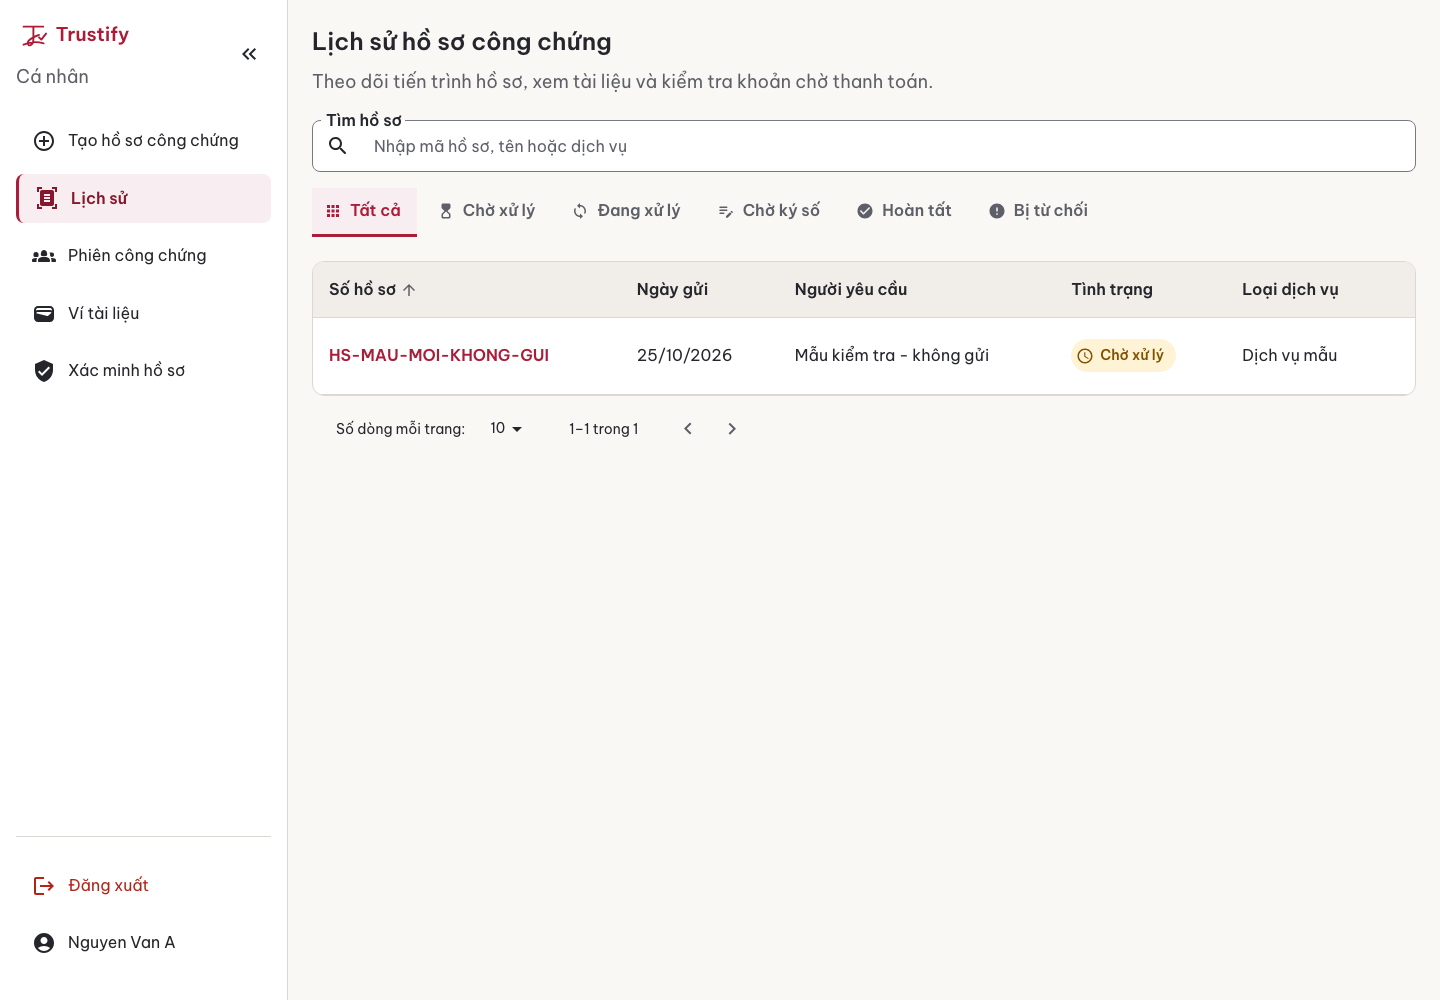
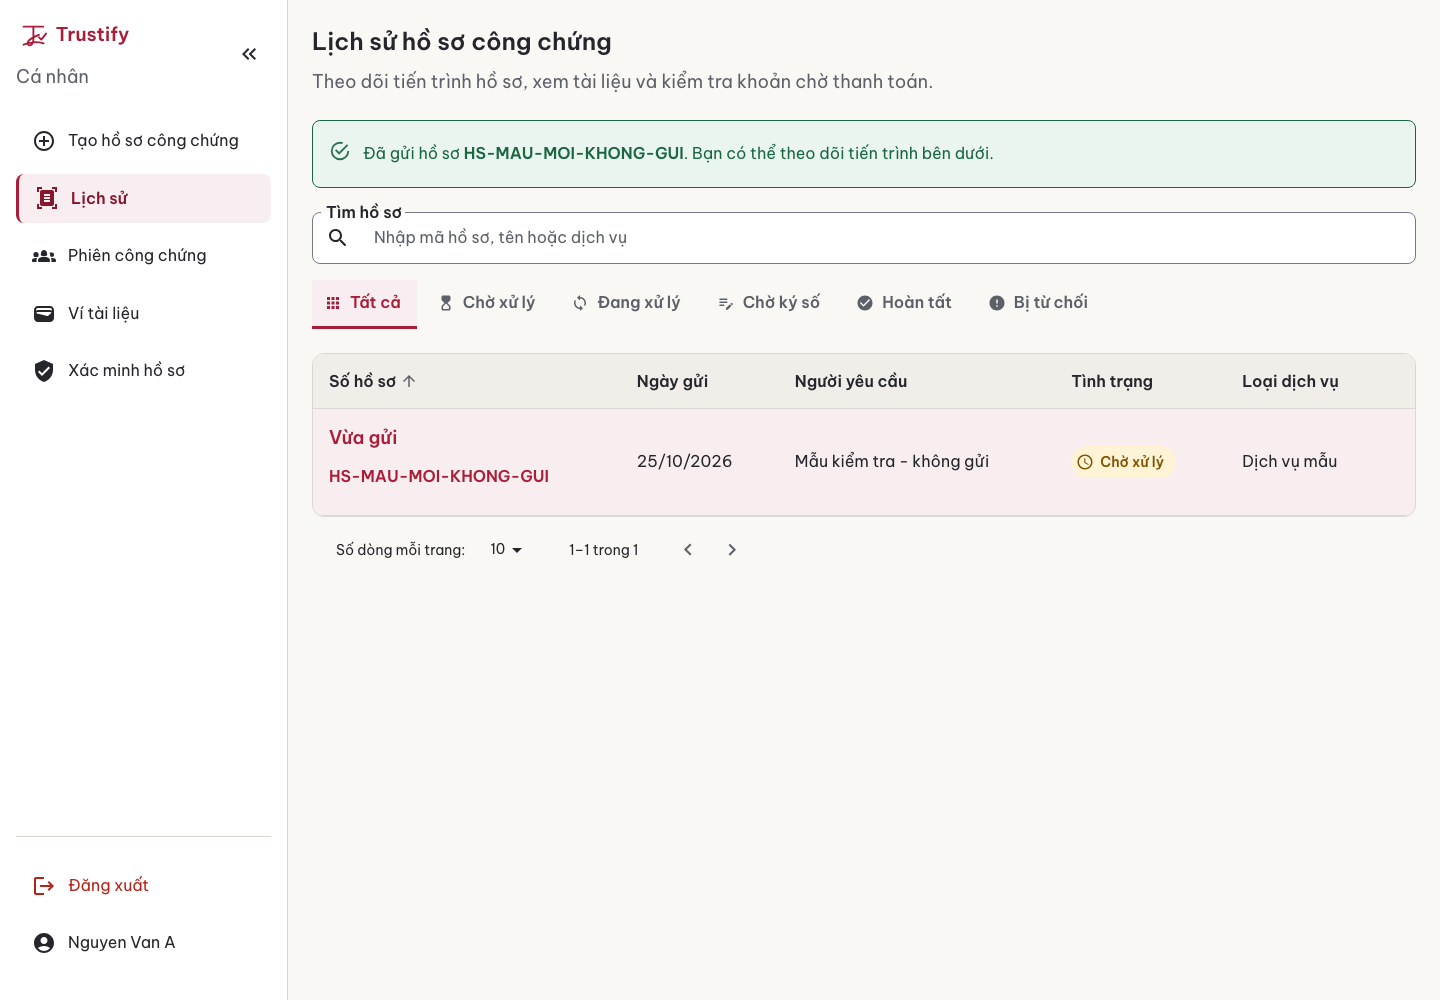
Recognize the actual created-document response and reveal its history row

diff --git a/src/components/services/HistoryDataTable.js b/src/components/services/HistoryDataTable.js
@@ -1,4 +1,4 @@
-import React, { useEffect, useMemo, useState } from 'react';
+import React, { useEffect, useMemo, useRef, useState } from 'react';
 import { Box, Button, Card, CardContent, FormControl, IconButton, InputLabel, MenuItem, Select, Table, TableBody, TableCell, TableContainer, TableHead, TablePagination, TableRow, TableSortLabel, Typography, useMediaQuery } from '@mui/material';
 import { ArrowDownwardRounded, ArrowUpwardRounded } from '@mui/icons-material';
 import { Link } from 'react-router-dom';
@@ -15,7 +15,7 @@ function descendingComparator(a, b, orderBy) {
 function getComparator(order, orderBy) {
   return order === 'desc' ? (a, b) => descendingComparator(a, b, orderBy) : (a, b) => -descendingComparator(a, b, orderBy);
 }
-const HistoryDataTable = ({ filterStatus, searchText, rows, headCells, statusTypes, data, onClearFilters }) => {
+const HistoryDataTable = ({ filterStatus, searchText, rows, headCells, statusTypes, data, onClearFilters, highlightId }) => {
   const mobile = useMediaQuery((theme) => theme.breakpoints.down('md'));
   const [order, setOrder] = useState('asc');
   const [orderBy, setOrderBy] = useState('profile');
@@ -23,6 +23,9 @@ const HistoryDataTable = ({ filterStatus, searchText, rows, headCells, statusTyp
   const [rowsPerPage, setRowsPerPage] = useState(10);
   const [open, setOpen] = useState(false);
   const [notaryId, setNotaryId] = useState('');
+  const highlightRef = useRef(null);
+  const pagedHighlight = useRef(null);
+  const focusedHighlight = useRef(null);
   useEffect(() => { setPage(0); }, [filterStatus, searchText]);
   const filteredRows = useMemo(() => {
     let filtered = [...rows];
@@ -33,8 +36,20 @@ const HistoryDataTable = ({ filterStatus, searchText, rows, headCells, statusTyp
       row.service.toLowerCase().includes(searchText.toLowerCase()));
     return filtered.sort(getComparator(order, orderBy));
   }, [rows, filterStatus, statusTypes.All, searchText, order, orderBy]);
+  useEffect(() => {
+    const index = filteredRows.findIndex((row) => row.profile === highlightId);
+    if (index >= 0 && pagedHighlight.current !== highlightId) {
+      pagedHighlight.current = highlightId; setPage(Math.floor(index / rowsPerPage));
+    }
+  }, [highlightId, filteredRows, rowsPerPage]);
   const currentPage = Math.min(page, Math.max(0, Math.ceil(filteredRows.length / rowsPerPage) - 1));
   const visibleRows = filteredRows.slice(currentPage * rowsPerPage, currentPage * rowsPerPage + rowsPerPage);
+  useEffect(() => {
+    if (highlightRef.current && focusedHighlight.current !== highlightId) {
+      focusedHighlight.current = highlightId; highlightRef.current.focus();
+      highlightRef.current.scrollIntoView?.({ block: 'center' });
+    }
+  }, [highlightId, currentPage, mobile, visibleRows]);
   const requestSort = (property) => { setOrder(orderBy === property && order === 'asc' ? 'desc' : 'asc'); setOrderBy(property); };
   const openRecord = (row) => { setNotaryId(row.profile); setOpen(true); };
   return (
@@ -54,8 +69,8 @@ const HistoryDataTable = ({ filterStatus, searchText, rows, headCells, statusTyp
             </IconButton>
           </Box>
           <Box component="ul" aria-label="Danh sách hồ sơ" sx={{ p: 0, m: 0, listStyle: 'none', display: 'flex', flexDirection: 'column', gap: 2 }}>
-            {visibleRows.map((row) => <Card key={row.id} component="li"><CardContent sx={{ display: 'flex', flexDirection: 'column', gap: 1.5 }}>
-              <Box><Typography color="text.secondary">Mã hồ sơ</Typography><Typography component="h2" sx={{ fontWeight: 600, overflowWrap: 'anywhere' }}>{row.profile}</Typography></Box>
+            {visibleRows.map((row) => <Card key={row.id} component="li" ref={row.profile === highlightId ? highlightRef : undefined} tabIndex={row.profile === highlightId ? -1 : undefined} sx={{ borderColor: row.profile === highlightId ? 'primary.main' : 'divider' }}><CardContent sx={{ display: 'flex', flexDirection: 'column', gap: 1.5 }}>
+              <Box>{row.profile === highlightId && <Typography color="primary.main" sx={{ fontWeight: 600 }}>Vừa gửi</Typography>}<Typography color="text.secondary">Mã hồ sơ</Typography><Typography component="h2" sx={{ fontWeight: 600, overflowWrap: 'anywhere' }}>{row.profile}</Typography></Box>
               <Box sx={{ alignSelf: 'flex-start' }}><DocumentStatusChip status={row.status} /></Box>
               <Typography color="text.secondary">Ngày gửi: {row.date}</Typography>
               <Typography sx={{ overflowWrap: 'anywhere' }}>{row.service}</Typography>
@@ -68,8 +83,8 @@ const HistoryDataTable = ({ filterStatus, searchText, rows, headCells, statusTyp
             <TableHead><TableRow>{headCells.map((cell) => <TableCell key={cell.id} sortDirection={orderBy === cell.id ? order : false} sx={{ minWidth: cell.id === 'status' ? 140 : undefined }}>
               <TableSortLabel active={orderBy === cell.id} direction={orderBy === cell.id ? order : 'asc'} onClick={() => requestSort(cell.id)}>{cell.label}</TableSortLabel>
             </TableCell>)}</TableRow></TableHead>
-            <TableBody>{visibleRows.map((row) => <TableRow key={row.id} hover selected={open && row.profile === notaryId} onClick={() => openRecord(row)} sx={{ cursor: 'pointer' }}>
-              <TableCell component="th" scope="row"><Button variant="text" aria-label={`Xem hồ sơ ${row.profile}`} onClick={(event) => { event.stopPropagation(); openRecord(row); }} sx={{ p: 0, textAlign: 'left', justifyContent: 'flex-start', overflowWrap: 'anywhere' }}>{row.profile}</Button></TableCell>
+            <TableBody>{visibleRows.map((row) => <TableRow key={row.id} hover ref={row.profile === highlightId ? highlightRef : undefined} tabIndex={row.profile === highlightId ? -1 : undefined} selected={(open && row.profile === notaryId) || row.profile === highlightId} onClick={() => openRecord(row)} sx={{ cursor: 'pointer' }}>
+              <TableCell component="th" scope="row">{row.profile === highlightId && <Typography color="primary.main" sx={{ fontWeight: 600 }}>Vừa gửi</Typography>}<Button variant="text" aria-label={`Xem hồ sơ ${row.profile}`} onClick={(event) => { event.stopPropagation(); openRecord(row); }} sx={{ p: 0, textAlign: 'left', justifyContent: 'flex-start', overflowWrap: 'anywhere' }}>{row.profile}</Button></TableCell>
               <TableCell>{row.date}</TableCell><TableCell>{row.name}</TableCell><TableCell sx={{ minWidth: 140 }}><DocumentStatusChip status={row.status} /></TableCell><TableCell>{row.service}</TableCell>
             </TableRow>)}</TableBody>
           </Table>

diff --git a/src/pages/services/HistoryNotarizationProfile.js b/src/pages/services/HistoryNotarizationProfile.js
@@ -1,5 +1,6 @@
 import React, { useCallback, useEffect, useState } from 'react';
-import { Box, FormControl, InputLabel, MenuItem, Select, Skeleton, Typography, TextField, InputAdornment } from '@mui/material';
+import { Alert, Box, FormControl, InputLabel, MenuItem, Select, Skeleton, Typography, TextField, InputAdornment } from '@mui/material';
+import { useLocation } from 'react-router-dom';
 import StatusFilterButton from '../../components/services/StatusFilterButton';
 import HistoryDataTable from '../../components/services/HistoryDataTable';
 import NotarizationService from '../../services/notarization.service';
@@ -46,6 +47,7 @@ const createData = (id, profile, date, name, status, service) => ({
 });
 
 const HistoryNotarizationProfile = () => {
+  const submittedDocumentId = useLocation().state?.submittedDocumentId;
   const [statusFilter, setStatusFilter] = useState(STATUS_TYPES.All);
   const [statusClicked, setStatusClicked] = useState(STATUS_TYPES.All);
   const [searchText, setSearchText] = useState('');
@@ -102,6 +104,7 @@ const HistoryNotarizationProfile = () => {
     <Box sx={{ display: 'flex', flexDirection: 'column', width: '100%', maxWidth: 1280, mx: 'auto', p: { xs: 2, md: 3 }, gap: 3 }}>
       <Box><Typography component="h1" variant="h4">Lịch sử hồ sơ công chứng</Typography>
         <Typography color="text.secondary" sx={{ mt: 1 }}>Theo dõi tiến trình hồ sơ, xem tài liệu và kiểm tra khoản chờ thanh toán.</Typography></Box>
+      {submittedDocumentId && <Alert severity="success">Đã gửi hồ sơ <Box component="span" sx={{ fontWeight: 600, overflowWrap: 'anywhere' }}>{submittedDocumentId}</Box>. Bạn có thể theo dõi tiến trình bên dưới.</Alert>}
       <PendingPayments />
       <Box sx={{ display: 'flex', flexDirection: 'column', gap: 2 }}>
         <TextField label="Tìm hồ sơ" placeholder="Nhập mã hồ sơ, tên hoặc dịch vụ" value={searchText} onChange={(event) => setSearchText(event.target.value)} fullWidth
@@ -117,7 +120,7 @@ const HistoryNotarizationProfile = () => {
       </Box>
       {loadingStatus ? <LoadingState label="Đang tải hồ sơ…">{[0, 1, 2].map((index) => <Skeleton key={index} variant="rectangular" height={96} sx={{ mb: 2 }} />)}</LoadingState> : error ?
         <ErrorState title="Chưa thể tải lịch sử hồ sơ" description="Bạn có thể thử tải lại danh sách hồ sơ." onRetry={fetchHistory} /> :
-        <HistoryDataTable filterStatus={statusFilter} searchText={searchText} rows={rows} headCells={HEAD_CELLS} statusTypes={STATUS_TYPES} data={fullData} onClearFilters={clearFilters} />}
+        <HistoryDataTable filterStatus={statusFilter} searchText={searchText} rows={rows} headCells={HEAD_CELLS} statusTypes={STATUS_TYPES} data={fullData} onClearFilters={clearFilters} highlightId={submittedDocumentId} />}
     </Box>
   );
 };

diff --git a/src/pages/services/create-notarization-profile/CreateNotarizationProfile.test.js b/src/pages/services/create-notarization-profile/CreateNotarizationProfile.test.js
@@ -123,8 +123,20 @@ test('an unsuccessful submission preserves review information and files for retr
   fireEvent.change(screen.getByLabelText('Tệp cho Giấy tờ tuỳ thân'), { target: { files: [new File(['sample'], 'sample.pdf', { type: 'application/pdf' })] } });
   fireEvent.click(screen.getByRole('button', { name: 'Tiếp tục', exact: true }));
   fireEvent.click(screen.getByRole('button', { name: 'Gửi hồ sơ', exact: true }));
-  await waitFor(() => expect(toast.error).toHaveBeenCalledWith('Chưa thể gửi hồ sơ. Thông tin đã nhập vẫn ở đây để bạn thử lại.'));
+  await waitFor(() => expect(toast.error).toHaveBeenCalledWith('Chưa thể xác nhận việc gửi hồ sơ. Vui lòng kiểm tra Lịch sử trước khi thử lại.'));
   expect(screen.getByText('Nguyễn Thị Mỹ')).toBeInTheDocument(); expect(screen.getByRole('button', { name: 'Mở tài liệu sample.pdf' })).toBeInTheDocument();
   await waitFor(() => expect(screen.getByRole('button', { name: 'Gửi hồ sơ', exact: true })).toBeEnabled());
   expect(NotarizationService.uploadNotarizationDocument).toHaveBeenCalledTimes(1); expect(toast.success).not.toHaveBeenCalled(); expect(mockNavigate).not.toHaveBeenCalled();
+});
+
+
+test.each(['id', '_id'])('a created-document response (%s) navigates with its ID without requiring a status envelope', async (idKey) => {
+  const createdId = '507f1f77bcf86cd799439011';
+  NotarizationService.uploadNotarizationDocument.mockResolvedValue({ [idKey]: createdId, createdAt: '2026-10-25' });
+  setup(); await chooseField(); await chooseService(); fillInformation();
+  fireEvent.change(screen.getByLabelText('Tệp cho Giấy tờ tuỳ thân'), { target: { files: [new File(['sample'], 'sample.pdf', { type: 'application/pdf' })] } });
+  fireEvent.click(screen.getByRole('button', { name: 'Tiếp tục', exact: true }));
+  fireEvent.click(screen.getByRole('button', { name: 'Gửi hồ sơ', exact: true }));
+  await waitFor(() => expect(mockNavigate).toHaveBeenCalledWith('/user/history', { state: { submittedDocumentId: createdId } }));
+  expect(toast.error).not.toHaveBeenCalled(); expect(toast.success).toHaveBeenCalled();
 });

diff --git a/src/pages/services/create-notarization-profile/CreateNotarizationProfile.js b/src/pages/services/create-notarization-profile/CreateNotarizationProfile.js
@@ -170,8 +170,9 @@ const CreateNotarizationProfile = () => {
 
       const response = await NotarizationService.uploadNotarizationDocument(formData);
 
-      if (response.status !== 200) {
-        toast.error('Chưa thể gửi hồ sơ. Thông tin đã nhập vẫn ở đây để bạn thử lại.');
+      const createdDocumentId = typeof response?.id === 'string' ? response.id : typeof response?._id === 'string' ? response._id : null;
+      if (!createdDocumentId && response?.status !== 200) {
+        toast.error('Chưa thể xác nhận việc gửi hồ sơ. Vui lòng kiểm tra Lịch sử trước khi thử lại.');
         return response;
       }
       toast.success('Tạo hồ sơ công chứng thành công');
@@ -180,10 +181,11 @@ const CreateNotarizationProfile = () => {
       setUploadedFiles([]);
       setDocumentWalletFiles([]);
       setCurrentStep(0);
-      navigate('/user/history');
+      if (createdDocumentId) navigate('/user/history', { state: { submittedDocumentId: createdDocumentId } });
+      else navigate('/user/history');
       return response;
     } catch (error) {
-      toast.error('Chưa thể gửi hồ sơ. Thông tin đã nhập vẫn ở đây để bạn thử lại.');
+      toast.error('Chưa thể xác nhận việc gửi hồ sơ. Vui lòng kiểm tra Lịch sử trước khi thử lại.');
     } finally {
       setLoading(false);
     }

diff --git a/src/components/services/HistoryResponsive.test.js b/src/components/services/HistoryResponsive.test.js
@@ -49,3 +49,13 @@ test('payment read failure offers retry without implying that nothing is owed', 
   await waitFor(() => expect(screen.queryByText('Đang kiểm tra khoản chờ thanh toán…')).not.toBeInTheDocument());
   expect(PaymentService.getMyPayments.mock.calls).toEqual([['pending'], ['pending']]); expect(PaymentService.updatePaymentStatus).not.toHaveBeenCalled();
 });
+
+
+test.each([false, true])('a newly submitted ID is revealed once without changing the sort order (%s)', (mobile) => {
+  useMediaQuery.mockReturnValue(mobile); render(<HistoryDataTable rows={rows} headCells={heads} statusTypes={STATUS_TYPES} filterStatus={STATUS_TYPES.All} searchText="" data={[]} highlightId="HS-11" />, { wrapper });
+  expect(screen.getByText('HS-11')).toBeInTheDocument(); expect(screen.getByText('Vừa gửi')).toBeInTheDocument();
+  expect(screen.getByText('11–12 trong 12')).toBeInTheDocument();
+  expect(screen.queryByText('HS-00')).not.toBeInTheDocument();
+  fireEvent.click(screen.getByRole('button', { name: 'Trang trước' }));
+  expect(screen.getByText('HS-00')).toBeInTheDocument(); expect(screen.queryByText('HS-11')).not.toBeInTheDocument();
+});

diff --git a/docs/design/screenshots/05a/README.md b/docs/design/screenshots/05a/README.md
@@ -2,11 +2,17 @@
 
 Baseline main `8fba197`. Twenty before/after pairs cover populated history/payment banners, the table/mobile list, search matches/no results, empty history, history read failure/loading, payment read failure/loading and the successful-submit handoff, each at1440/390. Read fixtures use local history/payment responses; checkout URLs are non-production examples and never activated.
 
-Build/CRA ESLint/34 tests pass. Desktop and mobile retain the original comparator, filter values, translated-status search and record IDs. Filtering resets/clamps visual pagination and counts the filtered rows. Table rows and card buttons open the existing detail modal with the same raw document ID. Unused bulk-selection checkboxes were removed; no backend bulk action existed. Cards include ID, date, service and the shared DocumentStatusChip. Dates now label createdAt as Ngày gửi.
+Build/CRA ESLint/38 tests pass. Desktop and mobile retain the original comparator, filter values, translated-status search and record IDs. Filtering resets/clamps visual pagination and counts the filtered rows. Table rows and card buttons open the existing detail modal with the same raw document ID. Unused bulk-selection checkboxes were removed; no backend bulk action existed. Cards include ID, date, service and the shared DocumentStatusChip. Dates now label createdAt as Ngày gửi.
 
-PendingPayments still calls getMyPayments(pending), excludes missing checkoutUrl and uses each exact href and amount. It now distinguishes loading/failure from an empty list, retries only that GET and gives44px payment actions. No payment status is updated. Successful wizard submits clear wallet selections and navigate to the existing /user/history route. FormData remains unchanged; failed submissions stay in review.
+PendingPayments still calls getMyPayments(pending), excludes missing checkoutUrl and uses each exact href and amount. It now distinguishes loading/failure from an empty list, retries only that GET and gives44px payment actions. No payment status is updated. Successful wizard submits clear wallet selections and navigate to the existing /user/history route. The returned document ID is highlighted/revealed once, without changing the comparator or later pagination. FormData remains unchanged; failed submissions stay in review.
 
-Safety/evidence: read-only captures and local keyboard/filter checks record zero non-auth writes. The success handoff separately fulfills one upload POST locally with status200 and blocks every other non-auth write; no upload reaches the backend. FormData/native bytes and wallet clearing/navigation are unit-mocked. No real submission, signing or checkout occurred. Existing detail-modal/signature presentation follows05c; payment-result presentation follows05b. Vercel all-role QA pending.
+Safety/evidence: read-only captures and local keyboard/filter checks record zero non-auth writes. The success handoff separately fulfills one upload POST locally with HTTP201 and a created-document body and blocks every other non-auth write; no upload reaches the backend. FormData/native bytes and wallet clearing/navigation are unit-mocked. No real submission, signing or checkout occurred. Existing detail-modal/signature presentation follows05c; payment-result presentation follows05b. Vercel all-role QA pending.
+
+## Upload response contract correction
+
+The prior wizard error handling incorrectly required a body status200 envelope. The existing backend responds HTTP201 with a created Document, whose toJSON plugin exposes `id`. The frontend service already returns that body unchanged. This PR accepts the returned `id` (and `_id` form), retains the legacy status200 form, and keeps errors in review. Failure copy asks users to check history before retrying because a network failure cannot prove that no document was created.
+
+Read-only backend audit: commit `2350e752ac5b22e70fa706774ba475b4649e6bd1`; [controller](https://github.com/sloweyyy/Trustify-Backend/blob/2350e752ac5b22e70fa706774ba475b4649e6bd1/src/controllers/notarization.controller.js), [Document schema](https://github.com/sloweyyy/Trustify-Backend/blob/2350e752ac5b22e70fa706774ba475b4649e6bd1/src/models/document.model.js), [serialization plugin](https://github.com/sloweyyy/Trustify-Backend/blob/2350e752ac5b22e70fa706774ba475b4649e6bd1/src/models/plugins/toJSON.plugin.js). No backend files or frontend services changed. Tests cover both ID forms, the legacy envelope, unsuccessful submissions and off-page highlighting on desktop/mobile.
 
 ## history-payments-desktop
 

diff --git a/docs/design/PROGRESS.md b/docs/design/PROGRESS.md
@@ -56,4 +56,6 @@ All timestamps use Asia/Ho_Chi_Minh (UTC+07). Merge requires Claude’s `review:
 - 04 — Create-profile wizard, PR #18, 2026-10-25 09:54: three-step Vietnamese composition, retained values/original display names, JPEG support/case-insensitive tests, mobile spacing, inline validation/focus, read retry and failed-submit data retention. Build/CRA ESLint/29 tests pass;16 before/after pairs, zero-write local User flow and720px layout audit pass. FormData and wallet payload contracts tested with mocked submission. Primary Vercel Ready; User full three-step wallet/review/back/removal and Notary/Admin click-through pass. Final source removes duplicate validation toast that obscured mobile choices; inline focus and direct wallet opening rechecked.11 preview captures. Ready for Claude review.
 
 - PR #18 approved and merged; production main8fba197 Ready and HTTP200/no uncaught errors at10:18. Claude05 follow-ups: navigate to history on successful submission and clear wallet selections; included05a.
-- 05a — History/mobile cards and pending payments, PR pending, 2026-10-25 10:35: table/card filter and ID parity, keyboard detail action, truthful empty/loading/error states, readable payment amounts/unchanged checkout hrefs, and successful-submit history handoff/wallet reset. Build/CRA ESLint/34 tests pass;20 before/after pairs. Read scenarios zero non-auth writes; submit handoff is a locally fulfilled POST fixture. Payment result05b and detail/signature05c remain. Vercel QA pending.
+- 05a — History/mobile cards and pending payments, PR pending, 2026-10-25 10:35: table/card filter and ID parity, keyboard detail action, truthful empty/loading/error states, readable payment amounts/unchanged checkout hrefs, and successful-submit history handoff/wallet reset. Build/CRA ESLint/38 tests pass;20 before/after pairs. Read scenarios zero non-auth writes; submit handoff is a locally fulfilled HTTP201/document-body POST fixture. Payment result05b and detail/signature05c remain. Vercel QA pending.
+
+- 05a contract audit: caught a regression in the prior wizard error handling. Backend main2350e752 responds201 with a serialized Document (`id`), not a status200 envelope. Frontend interpretation corrected without service/API changes; created ID is revealed once in history.38 tests cover wire/legacy responses and pagination; network-failure copy directs users to check history before retrying.
